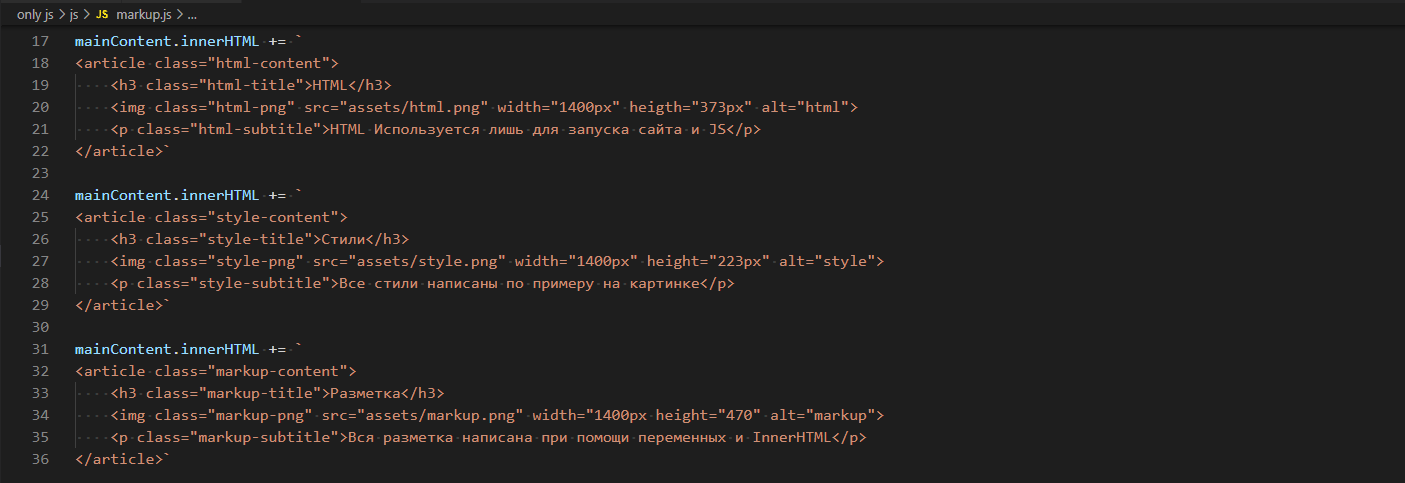
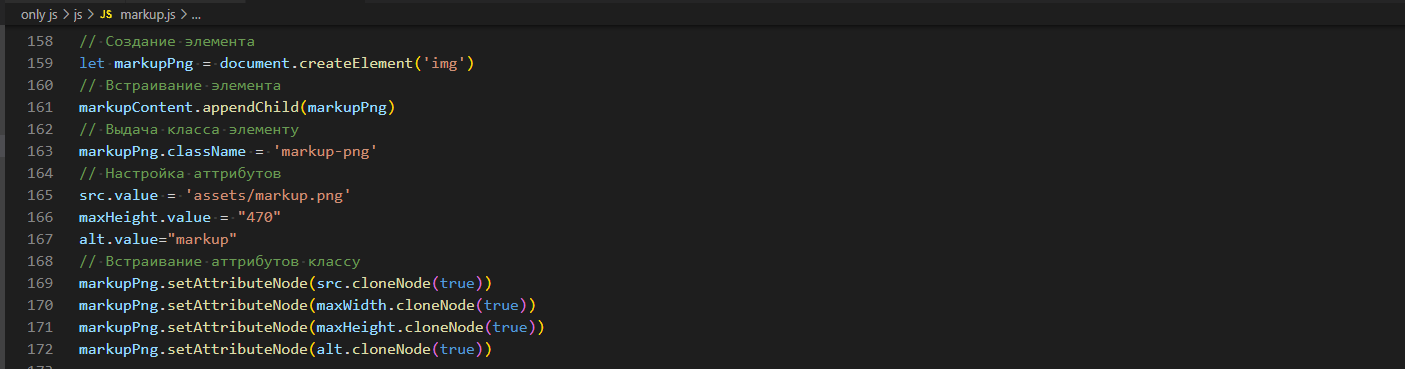
Add files via upload

Changed region(s): [[0.0, 0.0, 0.6427, 1.0]]

diff --git a/js/markup.js b/js/markup.js
@@ -21,7 +21,7 @@ metaViewport.setAttributeNode(content)
 
 let title = document.createElement('title')
 head.appendChild(title)
-title.innerHTML = ('Only JS')
+title.textContent = 'Only JS'
 
 let linkFonts = document.createElement('link')
 head.appendChild(linkFonts)
@@ -47,68 +47,184 @@ linkFontsStyle.setAttributeNode(rel.cloneNode(true))
 href.value='https://fonts.googleapis.com/css2?family=Source+Sans+Pro:wght@400;700&display=swap'
 rel.value='stylesheet'
 
-body.innerHTML += `<header></header><main></main><footer></footer>`
-let header = document.querySelector('header')
-let main = document.querySelector('main')
-let footer = document.querySelector('footer')
+let header = document.createElement('header')
+body.appendChild(header)
 
-// let p = document.createElement('img');
-// let a = document.createAttribute('src')
-// let width = document.createAttribute('width')
-// a.value="assets/github.png"
-// width.value="20px"
-// p.innerHTML = ('Привет, Мир!');
-// body.appendChild(p);
-// p.className = 'hello-world'
-// p.setAttributeNode(a)
-// p.setAttributeNode(width)
+let headerTitle = document.createElement('div')
+header.appendChild(headerTitle)
+headerTitle.className = ('header-title')
+
+let headerTopic = document.createElement('h1')
+headerTitle.appendChild(headerTopic)
+headerTopic.className = ('header-topic')
+headerTopic.textContent = 'ONLY JS'
+
+let headerSubtitle = document.createElement('p')
+headerTitle.appendChild(headerSubtitle)
+headerSubtitle.className = ('header-subtitle')
+headerSubtitle.textContent = 'Сайт написанный полностью на JS'
 
 
-header.innerHTML += `
-<div class="header-title">
-    <h1 class="header-topic">ONLY JS</h1>
-    <p class="header-subtitle">Сайт написанный полностью на JS</p>
-</div>`
+let main = document.createElement('main')
+body.appendChild(main)
 
-main.innerHTML +=`
-<section class="main-content">
-    <h2 class="main-topic">Как это сделано?</h2>
-</section>`
-let mainContent = document.querySelector('.main-content')
+let mainContent = document.createElement('section')
+main.appendChild(mainContent)
+mainContent.className = ('main-content')
 
-mainContent.innerHTML += `
-<article class="html-content">
-    <h3 class="html-title">HTML</h3>
-    <img class="html-png" src="assets/html.png" max-width="1400px" max-height="375px" alt="html">
-    <p class="html-subtitle">HTML Используется лишь для запуска сайта и JS</p>
-</article>`
+let mainTopic = document.createElement('h2')
+mainContent.appendChild(mainTopic)
+mainTopic.textContent = ('Как это сделано?')
+mainTopic.className = ('main-topic')
 
-mainContent.innerHTML += `
-<article class="style-content">
-    <h3 class="style-title">Стили</h3>
-    <img class="style-png" src="assets/style.png" max-width="1400px" max-height="223px" alt="style">
-    <p class="style-subtitle">Все стили написаны по примеру на картинке</p>
-</article>`
+let htmlContent = document.createElement('article')
+mainContent.appendChild(htmlContent)
+htmlContent.className = ('html-content')
 
-mainContent.innerHTML += `
-<article class="markup-content">
-    <h3 class="markup-title">Разметка</h3>
-    <img class="markup-png" src="assets/markup.png" max-width="1400px" max-height="470" alt="markup">
-    <p class="markup-subtitle">Вся разметка написана при помощи переменных и InnerHTML</p>
-</article>`
+let htmlTitle = document.createElement('h3')
+htmlContent.appendChild(htmlTitle)
+htmlTitle.textContent = 'HTML'
+htmlTitle.className = ('html-title')
 
-footer.innerHTML += `
-<section class="footer-content">
-</section>
-`
-let footerContent = document.querySelector('.footer-content')
+let src = document.createAttribute('src')
+let maxWidth = document.createAttribute('max-width')
+let maxHeight = document.createAttribute('max-height')
+let alt = document.createAttribute('alt')
 
-footerContent.innerHTML += `
-<h3 class="footer-title">ONLY JS</h3>
-<p class="footer-subtitle">Полезные ссылки</p>
-<nav class="footer-nav">
-    <a class="github-link" href="https://github.com/jange4ik/onlyjs">Исходный код<img src="assets/github.png" width="20px" height="20px"></a>
-    <a class="telegram-link" href="https://t.me/stuwebit">Мой ТГК<img src="assets/telegram.png" width="20px" height="20px"></a>
-    <a class="vk-link" href="https://vk.com/cringegidrogeneratordegenerat228">Мой ВК<img src="assets/vk.png" width="20px" height="20px"></a>
-</nav>
-`
+let htmlPng = document.createElement('img')
+htmlContent.appendChild(htmlPng)
+htmlPng.className = ('html-png')
+src.value = "assets/html.png"
+maxWidth.value = "1400px"
+maxHeight.value = "223px"
+alt.value = "html"
+htmlPng.setAttributeNode(src.cloneNode(true))
+htmlPng.setAttributeNode(maxWidth.cloneNode(true))
+htmlPng.setAttributeNode(maxHeight.cloneNode(true))
+htmlPng.setAttributeNode(alt.cloneNode(true))
+
+let htmlSubtitle = document.createElement('p')
+htmlContent.appendChild(htmlSubtitle)
+htmlSubtitle.className = ('html-subtitle')
+htmlSubtitle.textContent = "HTML Используется лишь для запуска сайта и JS"
+
+let styleContent = document.createElement('article')
+mainContent.appendChild(styleContent)
+styleContent.className = ('style-content')
+
+let styleTitle = document.createElement('h3')
+styleContent.appendChild(styleTitle)
+styleTitle.textContent = "Стили"
+styleTitle.className = "style-title"
+
+let stylePng = document.createElement('img')
+styleContent.appendChild(stylePng)
+stylePng.className = "style-png"
+src.value = 'assets/style.png'
+maxHeight.value = '274px'
+alt.value = "style"
+stylePng.setAttributeNode(src.cloneNode(true))
+stylePng.setAttributeNode(maxWidth.cloneNode(true))
+stylePng.setAttributeNode(maxHeight.cloneNode(true))
+stylePng.setAttributeNode(alt.cloneNode(true))
+
+let styleSubtitle = document.createElement('p')
+styleContent.appendChild(styleSubtitle)
+styleSubtitle.textContent = "Все стили написаны по примеру на картинке"
+styleSubtitle.className = "style-subtitle"
+
+let markupContent = document.createElement('article')
+mainContent.appendChild(markupContent)
+markupContent.className = ('markup-content')
+
+let markupTitle = document.createElement('h3')
+markupContent.append(markupTitle)
+markupTitle.className = 'markup-title'
+markupTitle.textContent = "Разметка"
+
+let markupPng = document.createElement('img')
+markupContent.appendChild(markupPng)
+markupPng.className = 'markup-png'
+src.value = 'assets/markup.png'
+maxHeight.value = "369"
+alt.value="markup"
+markupPng.setAttributeNode(src.cloneNode(true))
+markupPng.setAttributeNode(maxWidth.cloneNode(true))
+markupPng.setAttributeNode(maxHeight.cloneNode(true))
+markupPng.setAttributeNode(alt.cloneNode(true))
+
+let markupSubtitle = document.createElement('p')
+markupContent.appendChild(markupSubtitle)
+markupSubtitle.className = ("markup-subtitle")
+markupSubtitle.textContent = "Вся разметка написана при помощи переменных, createElement, createAttribute, className, textContent и appendChild. \n (Хорошим примером стал кусок кода картинки выше)."
+
+let footer = document.createElement('footer')
+body.appendChild(footer)
+
+let footerContent = document.createElement('section')
+footer.appendChild(footerContent)
+footerContent.className = ("footer-content")
+
+let footerTitle = document.createElement('h3')
+footerContent.appendChild(footerTitle)
+footerTitle.className = ("footer-title")
+footerTitle.textContent = "ONLY JS"
+
+let footerSubtitle = document.createElement('p')
+footerContent.appendChild(footerSubtitle)
+footerSubtitle.className = ('footer-subtitle')
+footerSubtitle.textContent = 'Полезные ссылки'
+
+let footerNav = document.createElement('nav')
+footerContent.appendChild(footerNav)
+footerNav.className = ('footer-nav')
+
+let hrefAtt = document.createAttribute('href')
+
+let githubLink = document.createElement('a')
+footerNav.appendChild(githubLink)
+githubLink.className = ('github-link')
+githubLink.textContent = "Исходный код"
+hrefAtt.value = 'https://github.com/jange4ik/onlyjs'
+githubLink.setAttributeNode(hrefAtt.cloneNode(true))
+
+let width = document.createAttribute('width')
+let height = document.createAttribute ('height')
+
+let githubPng = document.createElement('img')
+githubLink.appendChild(githubPng)
+src.value = 'assets/github.png'
+width.value = "20px"
+height.value = "20px"
+githubPng.setAttributeNode(src.cloneNode(true))
+githubPng.setAttributeNode(width.cloneNode(true))
+githubPng.setAttributeNode(height.cloneNode(true))
+
+
+let telegramLink = document.createElement('a')
+footerNav.appendChild(telegramLink)
+telegramLink.className = ('telegram-link')
+telegramLink.textContent = "Мой ТГК"
+hrefAtt.value = 'https://t.me/stuwebit'
+telegramLink.setAttributeNode(hrefAtt.cloneNode(true))
+
+let telegramPng = document.createElement('img')
+telegramLink.appendChild(telegramPng)
+src.value = 'assets/telegram.png'
+telegramPng.setAttributeNode(src.cloneNode(true))
+telegramPng.setAttributeNode(width.cloneNode(true))
+telegramPng.setAttributeNode(height.cloneNode(true))
+
+let vkLink = document.createElement('a')
+footerNav.appendChild(vkLink)
+vkLink.className = ('vk-link')
+vkLink.textContent = "Мой ВК"
+hrefAtt.value = 'https://vk.com/cringegidrogeneratordegenerat228'
+vkLink.setAttributeNode(hrefAtt.cloneNode(true))
+
+let vkPng = document.createElement('img')
+vkLink.appendChild(vkPng)
+src.value = 'assets/vk.png'
+vkPng.setAttributeNode(src.cloneNode(true))
+vkPng.setAttributeNode(width.cloneNode(true))
+vkPng.setAttributeNode(height.cloneNode(true))

diff --git a/js/style.js b/js/style.js
@@ -109,6 +109,8 @@ document.querySelector('.markup-subtitle').style.cssText=`
 font-size: 30px;
 padding: 0;
 margin :0;
+max-width: 1400px;
+white-space: pre-line;
 `; 
 document.querySelector('.markup-png').style.cssText=`
 border: 3px solid black;
